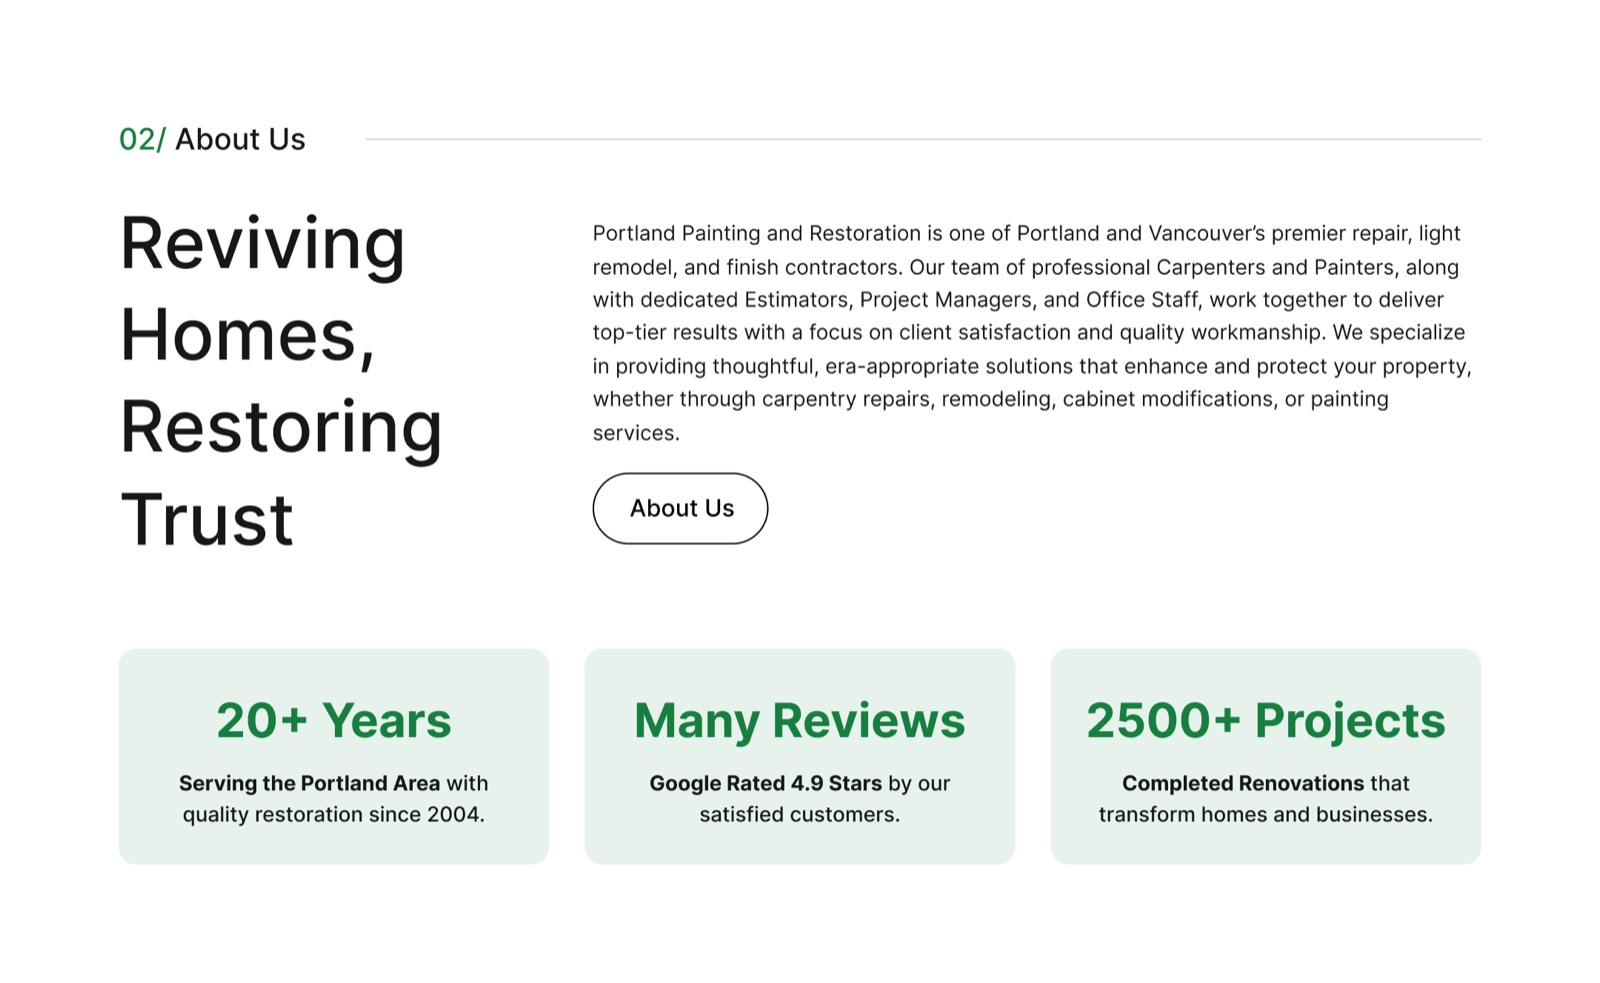
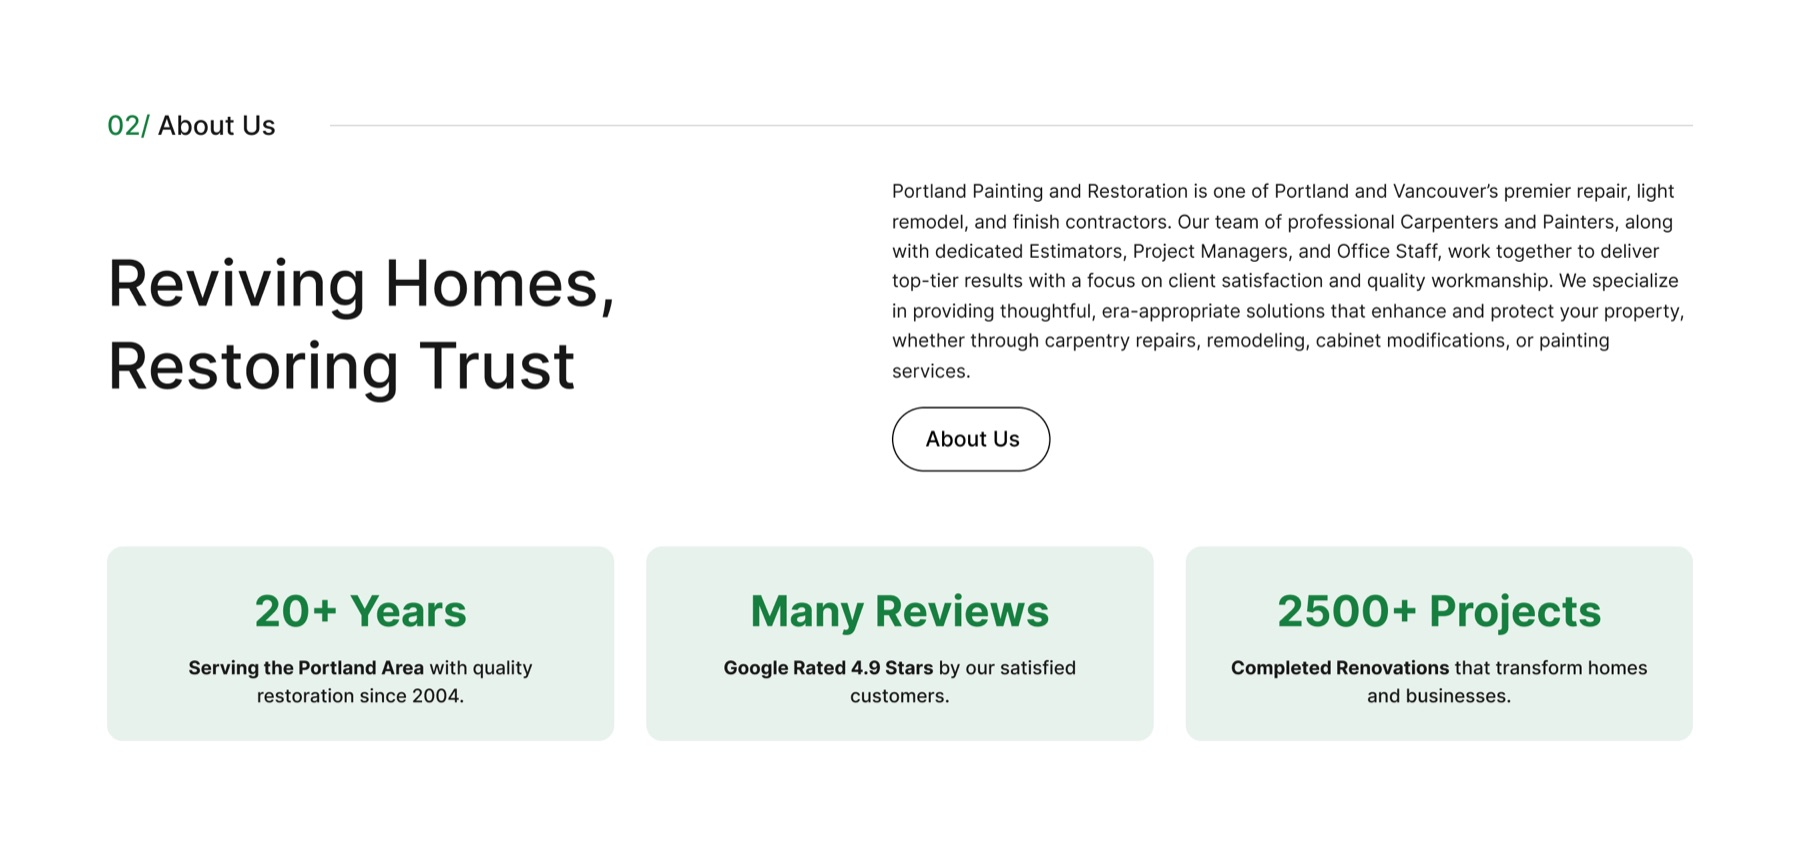
update

diff --git a/src/components/ProjectCard.tsx b/src/components/ProjectCard.tsx
@@ -6,6 +6,7 @@ import {
   Column,
   Flex,
   Heading,
+  Media,
   SmartLink,
   Text,
 } from "@once-ui-system/core";
@@ -14,6 +15,7 @@ interface ProjectCardProps {
   href: string;
   priority?: boolean;
   images: string[];
+  preview?: string;
   title: string;
   content: string;
   description: string;
@@ -24,6 +26,7 @@ interface ProjectCardProps {
 export const ProjectCard: React.FC<ProjectCardProps> = ({
   href,
   images = [],
+  preview,
   title,
   content,
   description,
@@ -32,7 +35,15 @@ export const ProjectCard: React.FC<ProjectCardProps> = ({
 }) => {
   return (
     <Column fillWidth gap="m">
-      {images.length > 0 && (
+      {preview ? (
+        <Media
+          aspectRatio="16 / 9"
+          radius="l"
+          border="neutral-alpha-weak"
+          alt={`${title} preview`}
+          src={preview}
+        />
+      ) : images.length > 0 ? (
         <Carousel
           sizes="(max-width: 960px) 100vw, 960px"
           items={images.map((image) => ({
@@ -40,7 +51,7 @@ export const ProjectCard: React.FC<ProjectCardProps> = ({
             alt: title,
           }))}
         />
-      )}
+      ) : null}
       <Flex
         s={{ direction: "column" }}
         fillWidth

diff --git a/src/utils/utils.ts b/src/utils/utils.ts
@@ -17,6 +17,7 @@ type Metadata = {
   summary: string;
   image?: string;
   images: string[];
+  preview?: string;
   tag?: string;
   team: Team[];
   link?: string;
@@ -48,6 +49,7 @@ function readMDXFile(filePath: string) {
     summary: data.summary || "",
     image: data.image || "",
     images: data.images || [],
+    preview: data.preview || "",
     tag: data.tag || [],
     team: data.team || [],
     link: data.link || "",

diff --git a/src/components/work/Projects.tsx b/src/components/work/Projects.tsx
@@ -41,6 +41,7 @@ export function Projects({ range, exclude }: ProjectsProps) {
           key={post.slug}
           href={`/work/${post.slug}`}
           images={post.metadata.images}
+          preview={post.metadata.preview}
           title={post.metadata.title}
           description={post.metadata.summary}
           content={post.content}

diff --git a/docs/portfolio-media-map.md b/docs/portfolio-media-map.md
@@ -54,11 +54,13 @@ Source: Figma `PtTVVeJV510W5GMowTEbMu` — *Soft Arcade Design System V1*.
 
 Two sources: the live site captured through Figma code-to-canvas into scratch file `6v1KIEQpkztzUqB5Zf2ots`, and the redesign design file `fZynXGuJ9MaKTkHy5E40ye`.
 
+Desktop captures were re-taken at a **1348px viewport**. An earlier 1080px pass landed in a bad breakpoint zone where the logo collided with the first nav item and the services grid stacked awkwardly; 1348px is the first width where the nav lays out as designed. Capture node: `7:2`.
+
 | File | Source | Demonstrates | Placement |
 | --- | --- | --- | --- |
-| `paintpdx-homepage-hero-desktop.jpg` | Live capture, node `6:2` (16:9 crop frame) | Header, nav and hero of the built site | Frontmatter `images[0]` + opening figure |
-| `paintpdx-services-section.jpg` | Live capture, node `2:146` (2×) | Photographic service cards with the interior/exterior toggle | "The built site" |
-| `paintpdx-about-section.jpg` | Live capture, node `2:101` (2×) | Credibility block and statistic cards | "The built site" |
+| `paintpdx-homepage-hero-desktop.jpg` | Live capture at 1348px, node `8:2` (16:9 crop frame) | Full desktop nav, announcement bar, estimate CTA and hero | Frontmatter `images[0]` + opening figure |
+| `paintpdx-services-section.jpg` | Live capture at 1348px, node `7:146` (2×) | Three-card service grid with the expanded card and interior/exterior toggle | "The built site" |
+| `paintpdx-about-section.jpg` | Live capture at 1348px, node `7:101` (2×) | Two-column about block and the three statistic cards | "The built site" |
 | `paintpdx-homepage-mobile.jpg` | Live site rendered in a 390px viewport, Chrome | Mobile nav and hero | Responsive `FigureRow` |
 | `paintpdx-services-mobile.jpg` | Live site rendered in a 390px viewport, Chrome | Service card and toggle surviving the small screen | Responsive `FigureRow` |
 | `paintpdx-style-guide.png` | Design file, node `49801:176` | Type ramp and green scale defined before layout | "Designed before it was built" |
@@ -106,17 +108,15 @@ Rendered as a 16:9 embed through `Figure`. Per instruction this is the only medi
 
 ## 6. Clean Strength — Label Design
 
-**Awaiting supplied media.** The page references:
+Source: product photography published on `cleanstrength.com`.
 
-```
-public/images/projects/clean-strength/clean-strength-label-01.jpg
-public/images/projects/clean-strength/clean-strength-label-02.jpg
-public/images/projects/clean-strength/clean-strength-labels-applied.jpg
-```
+| File | Demonstrates | Placement |
+| --- | --- | --- |
+| `clean-strength-label-01.jpg` | Creatine packaging, with the blue/black system wrapped around a wide container | Frontmatter `images[0]` → project card + first figure row |
+| `clean-strength-label-02.jpg` | The quieter wellness-label variant applied to a small supplement bottle | First figure row |
+| `clean-strength-labels-applied.jpg` | The core label system scaled to a large whey protein container | Full-width closing figure |
 
-The first two render as a two-up row, the third full width. Any that are missing are skipped. Filenames can be changed in `src/app/work/projects/clean-strength-labels.mdx` if the real exports are named differently.
-
-**Still needed:** label exports and/or product photography. Until then this project has no card image on the homepage, which is why its card currently shows text only.
+**Still needed:** original flat label exports would show the typography and production layout more precisely than storefront product photography alone.
 
 ---
 
